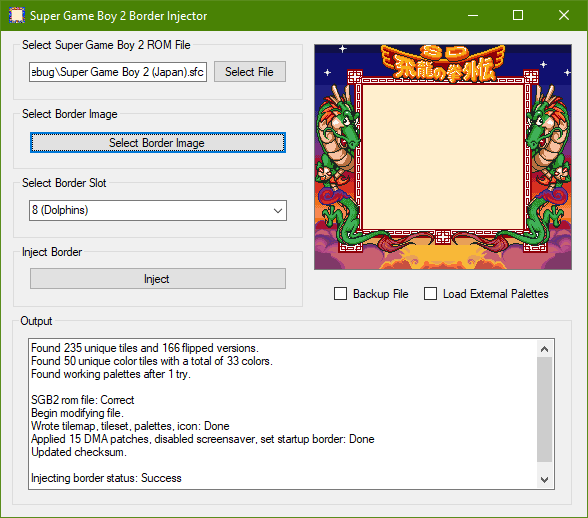
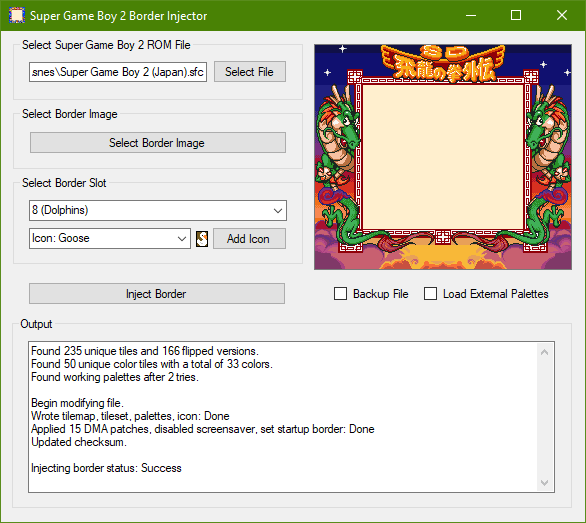
Version 0.91

diff --git a/Program.cs b/Program.cs
@@ -741,8 +741,8 @@ namespace SGB2_Border_Injector
                     Bitmap full_icon = new Bitmap(16, 16);
                     Graphics g = Graphics.FromImage(full_icon);
                     g.CompositingMode = System.Drawing.Drawing2D.CompositingMode.SourceCopy;
-                    g.DrawImageUnscaledAndClipped(icons[0], new Rectangle(2, 1, 10, 14));
-                    g.DrawImageUnscaledAndClipped(icon, new Rectangle());
+                    g.DrawImageUnscaledAndClipped(icons[0], new Rectangle(0, 0, 16, 16));
+                    g.DrawImageUnscaledAndClipped(icon, new Rectangle(2, 1, 10, 14));
                     icon = full_icon;
                 }
                 else if(icon.Width != 16 || icon.Height != 16)

diff --git a/Properties/AssemblyInfo.cs b/Properties/AssemblyInfo.cs
@@ -33,4 +33,4 @@ using System.Runtime.InteropServices;
 // by using the '*' as shown below:
 // [assembly: AssemblyVersion("1.0.*")]
 [assembly: AssemblyVersion("1.0.0.0")]
-[assembly: AssemblyFileVersion("0.91.0.0")]
+[assembly: AssemblyFileVersion("0.9.1.0")]
